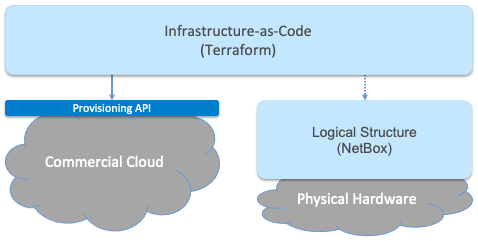
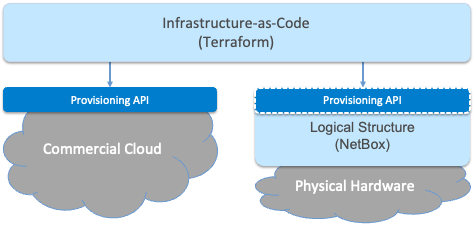
show provision API

diff --git a/provision.rst b/provision.rst
@@ -52,14 +52,14 @@ tracking physical inventory.
     Resource Provisioning in a hybrid cloud that includes both
     physical and virtual resources.
 
-Note that the dotted arrow on the right in :numref:`Figure %s
-<fig-infra>` is to indicate that Terraform does not interact directly
-with NetBox via a well-defined API (as is the case on the left), but
-instead with artifacts left behind by the hardware provisioning
-process described in Section 3.1. One way to think about this that the
-task of booting hardware into the "ready" state involves installing
-and configuring several subsystems that collectively form the cloud
-platform. It is this platform that Terraform interacts with.
+Note that the Provisioning API shown on the right in :numref:`Figure
+%s <fig-infra>` is *not* the NetBox API. Terraform does not interact
+directly with NetBox, but instead with artifacts left behind by the
+hardware provisioning process described in Section 3.1. One way to
+think about this that the task of booting hardware into the "ready"
+state involves installing and configuring several subsystems that
+collectively form the cloud platform. It is this platform that
+Terraform interacts with through a well-defined API we describe below.
 
 This chapter describes both sides of :numref:`Figure %s <fig-infra>`
 starting with provisioning physical infrastructure. Our approach is to
